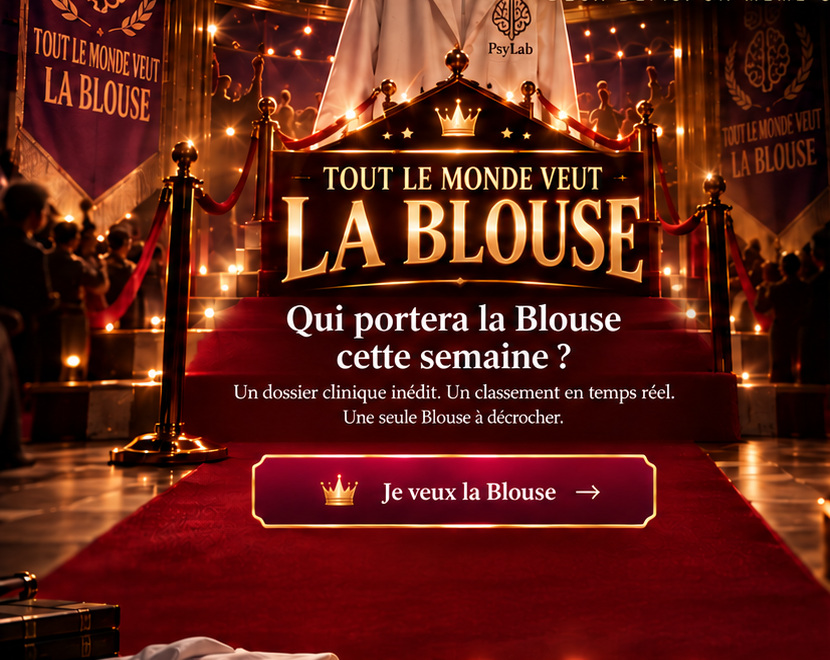
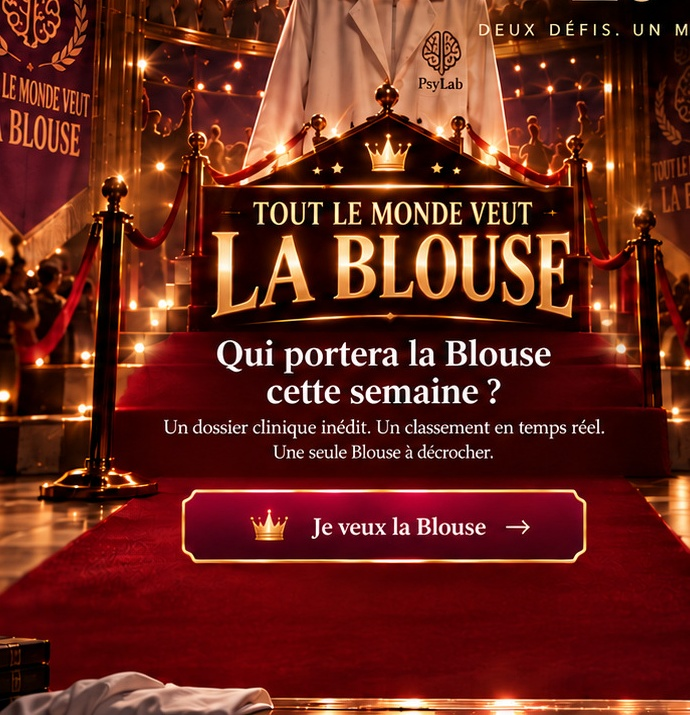
cirr

diff --git a/psylab-vestiaire-v80.css b/psylab-vestiaire-v80.css
@@ -44,14 +44,17 @@ body.ps-vestiaire-v80{margin:0;min-height:100vh;color:#fff;overflow-x:hidden}
   .ps-v80-nav,.ps-v80-search{display:none!important}.ps-v80-actions{gap:8px}.ps-v80-avatar{width:39px;height:39px}.ps-v80-menu{display:block}
   .ps-v80-desktop{display:none}
   .ps-v80-mobile{display:block;width:100%;max-width:520px;margin:0 auto;background:#07090b;padding-bottom:max(18px,env(safe-area-inset-bottom))}
+  .ps-v80-mobile-head{aspect-ratio:970/320;object-fit:cover;object-position:center center}
+  .ps-v80-mobile-panel{margin:0;background:#07090b}
+  .ps-v80-mobile-panel>img{object-fit:cover;object-position:center center}
   .ps-v80-mobile>img,.ps-v80-mobile-panel>img{width:100%;height:auto;display:block}
   .ps-v80-mobile-head{border-bottom:1px solid rgba(255,255,255,.08)}
   .ps-v80-mobile-panel{position:relative;overflow:hidden;border-top:1px solid rgba(255,255,255,.10)}
   .ps-v80-mobile-hotspot{position:absolute;display:block;z-index:5;border-radius:12px;cursor:pointer}
-  .ps-v80-mobile-hotspot.blouse{left:30.2%;top:69.1%;width:49.0%;height:11.4%}
-  .ps-v80-mobile-hotspot.page{left:28.0%;top:75.0%;width:45.0%;height:10.3%}
+  .ps-v80-mobile-hotspot.blouse{left:26.1%;top:68.5%;width:58.7%;height:10.3%}
+  .ps-v80-mobile-hotspot.page{left:21.4%;top:74.0%;width:55.4%;height:9.8%}
   .ps-v80-mobile-hotspot:focus-visible{outline:3px solid #fff;outline-offset:-3px}
-  .ps-v80-mobile-panel.page{border-top:10px solid #07090b}
+  .ps-v80-mobile-panel.page{border-top:12px solid #07090b}
 }
 
 @media(max-width:380px){.ps-v80-brand{font-size:1.35rem}.ps-v80-brand svg{width:28px;height:28px}.ps-v80-topbar{padding-inline:12px!important}}
